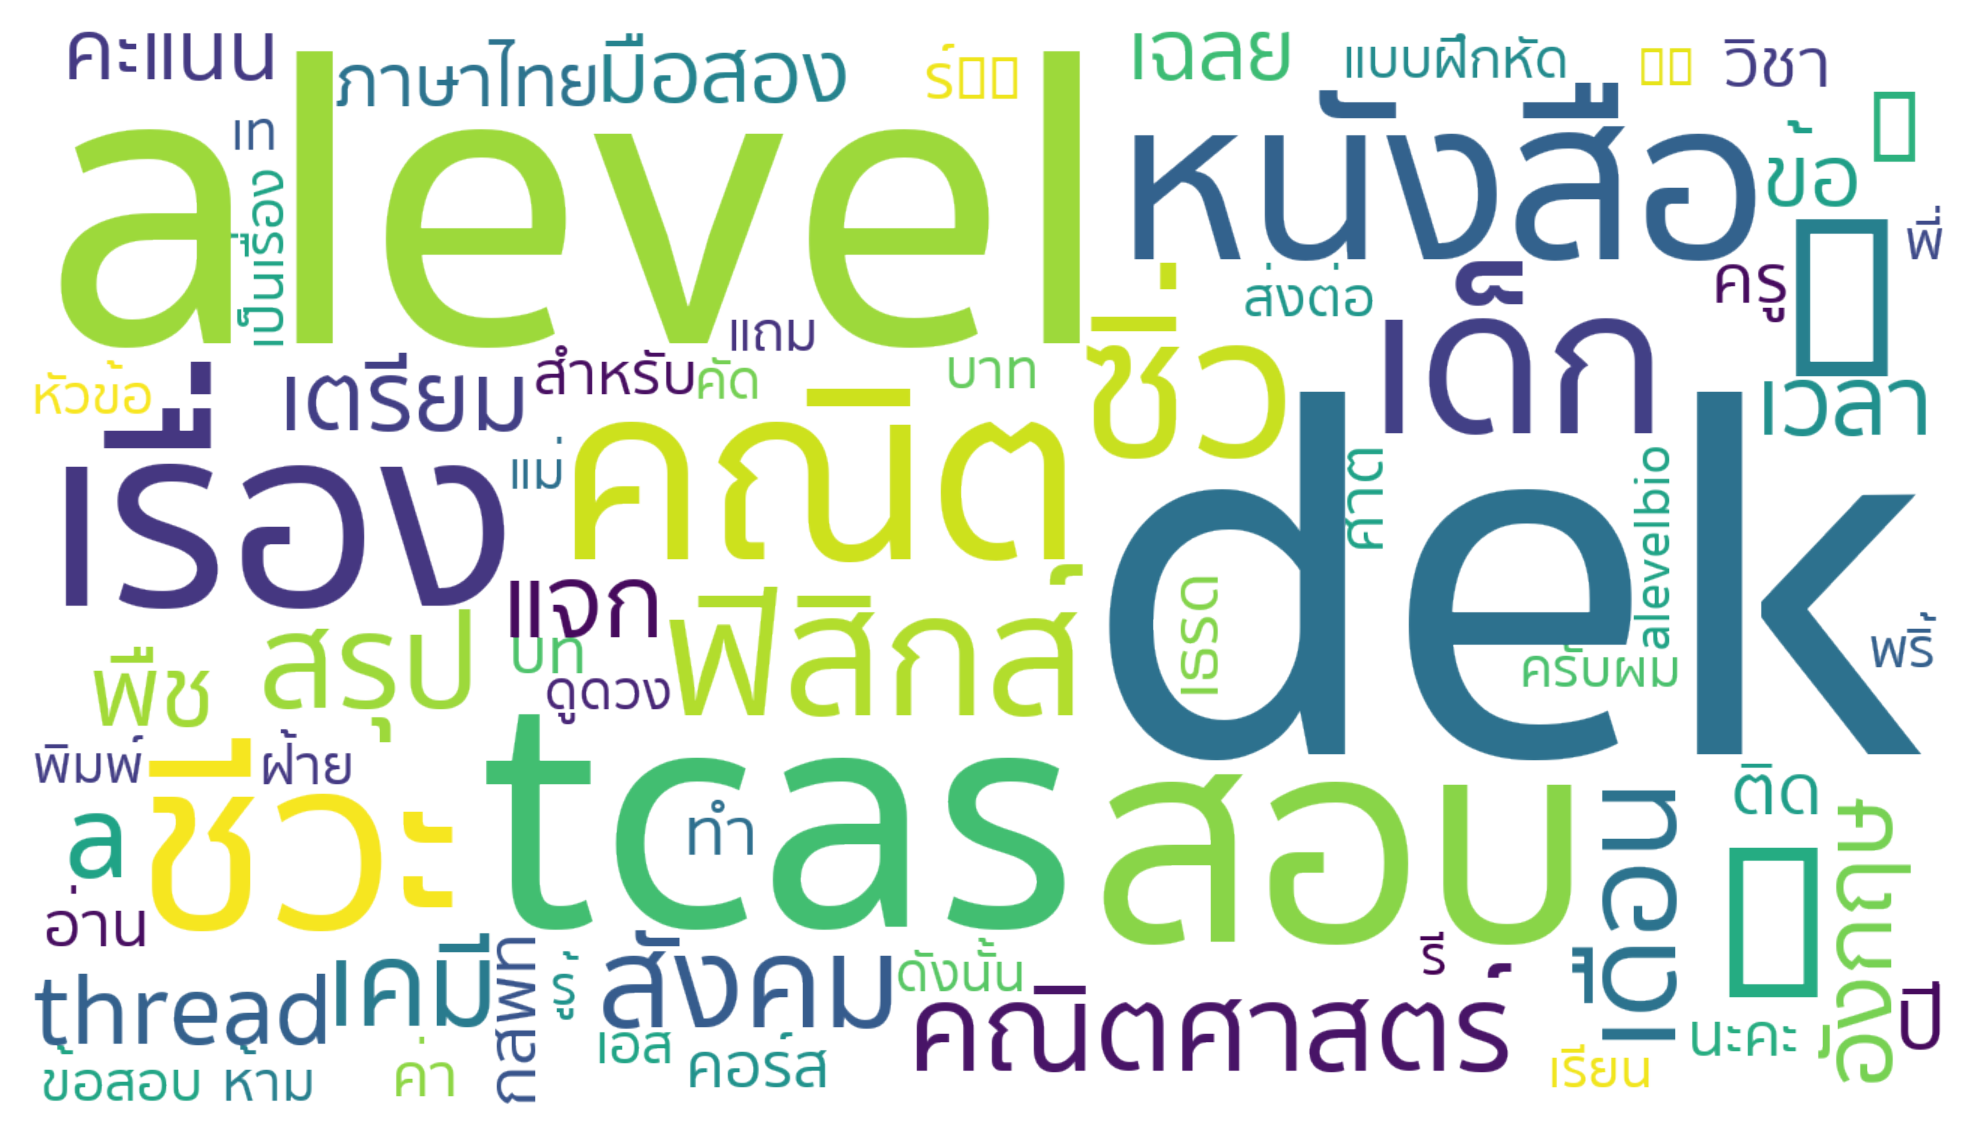
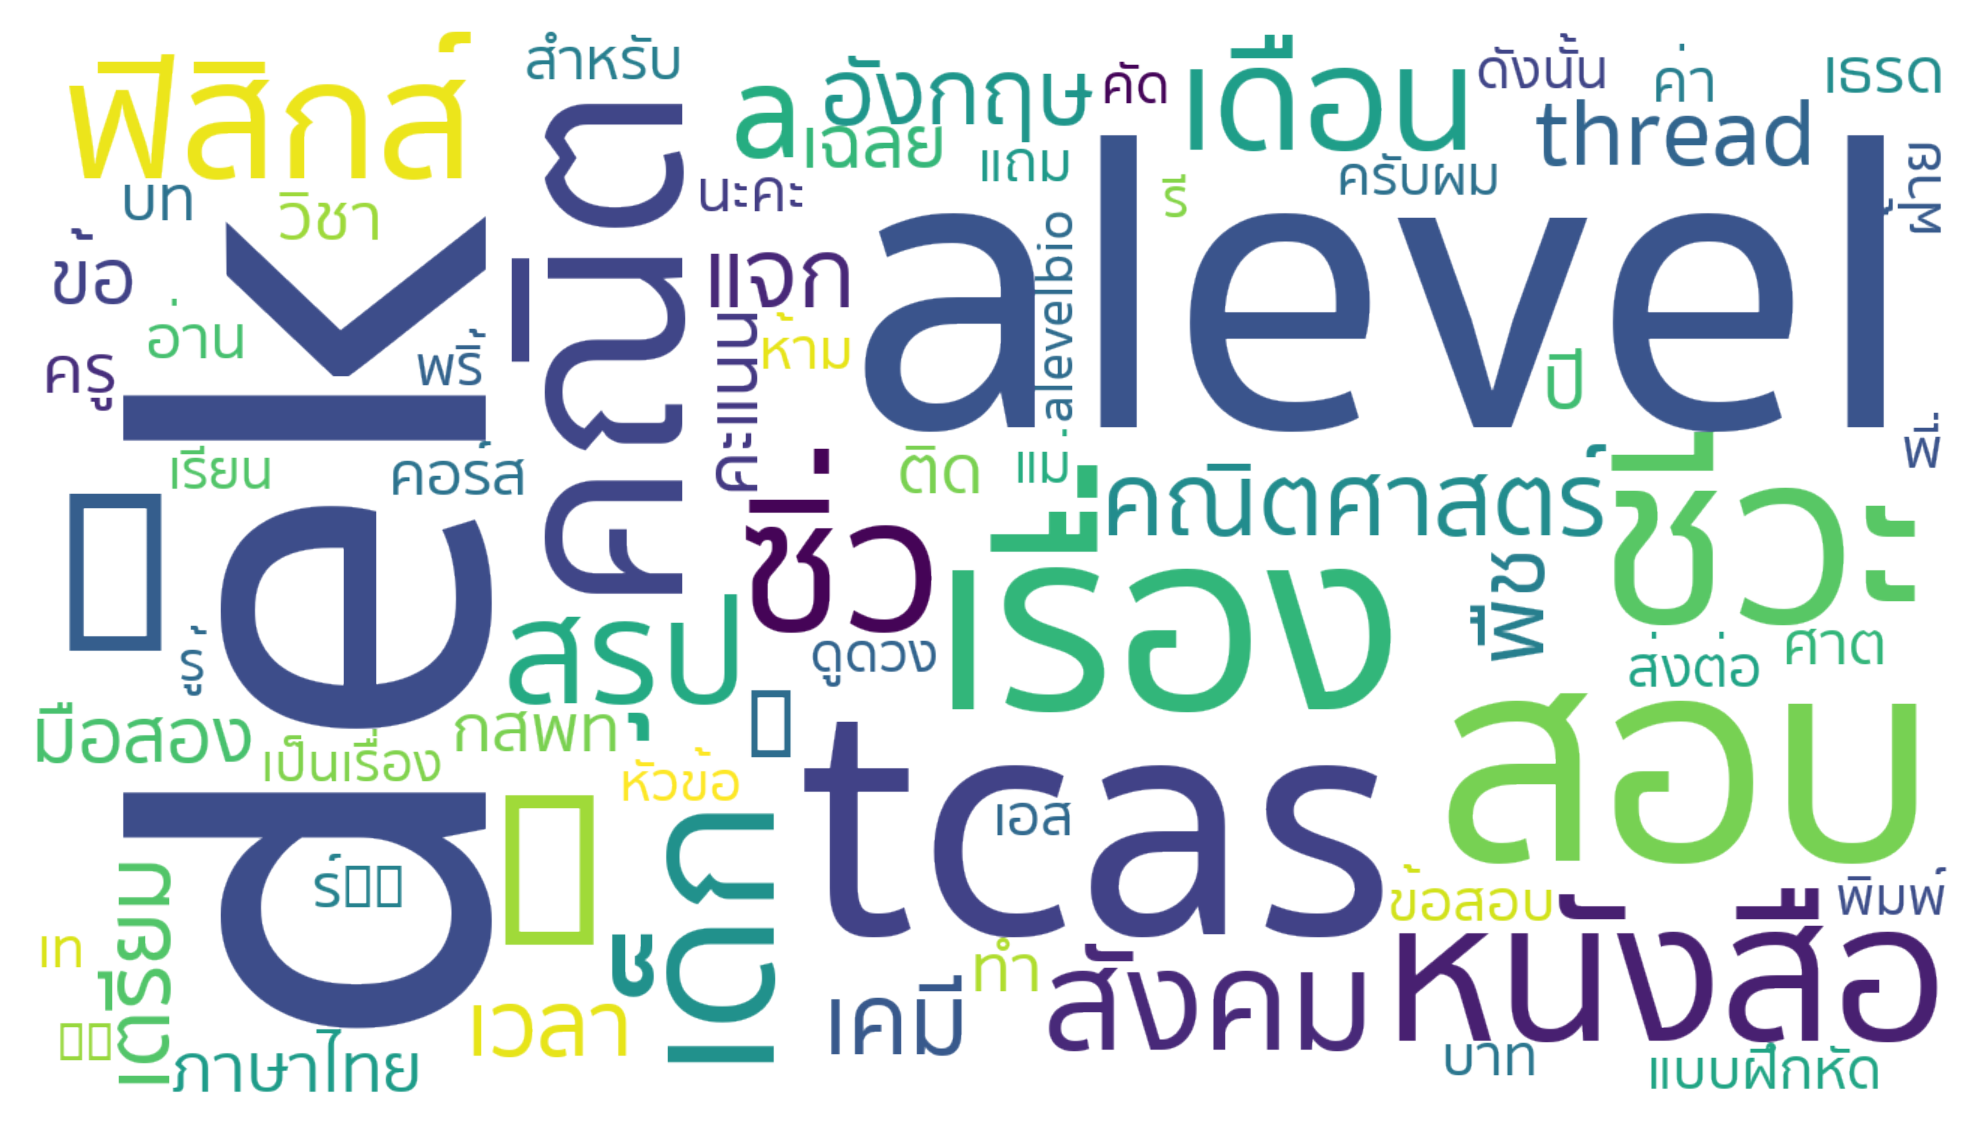
.

diff --git a/TwitterKeeper/Twitter_Analyzer.py b/TwitterKeeper/Twitter_Analyzer.py
@@ -69,7 +69,7 @@ class FindTopWord(PullTweetsData):
         plt.imshow(wordcloud, interpolation='bilinear')
         plt.axis('off')
         plt.tight_layout(pad=0)
-        plt.savefig('wordcloud.png', dpi=300, bbox_inches='tight')
+        plt.savefig('../GUI/wordcloud.png', dpi=300, bbox_inches='tight')
         plt.close()
         
 
@@ -219,10 +219,10 @@ class main():
             mode='markers',
             marker={
                 'size': data['value']/10,
-                'color': data['value'],
+                'color': "#000000",
                 'colorscale': 'Viridis',
                 'opacity': 0.7,
-                'colorbar': {'title': 'Value'},
+                # 'colorbar': {'title': 'Value'},
                 'sizemin': 5
             },
             text = data['country'] + ': ' + data['value'].astype(str)
@@ -288,9 +288,9 @@ class main():
 
 if __name__ == "__main__":
     # main().OneAnalyzer()
-    # x = main().load_sample_tweets(hashtag="dek66")
-    # dfMostWord = main().find_top_word.MostWordFinder(x)
-    # main().find_top_word.WordCloudPlot(dfMostWord)
+    x = main().load_sample_tweets(hashtag="dek66")
+    dfMostWord = main().find_top_word.MostWordFinder(x)
+    main().find_top_word.WordCloudPlot(dfMostWord)
     # df = main().tweets_sentiment_analyzer(x)
     # main().SentimentPiePlot(df)
     # # for i in x:

diff --git a/GUI/program1.py b/GUI/program1.py
@@ -753,8 +753,10 @@ class Ui_MainWindow(object):
         # label.setGeometry(0, 0, self.WordCloud.width(), self.WordCloud.height())
         # self.WordCloud.setStyleSheet(f"background-image: url({pixmap});")
         plot_widget2 = QtWebEngineWidgets.QWebEngineView(self.WordCloud)
-        plot_widget2.setHtml(f"<html><body><img src=\"wordcloud.png\" /></body></html>")
+        # plot_widget2.setHtml(f"<html><body><img src=\"wordcloud.png\" /></body></html>")
         plot_widget2.setGeometry(0, 0, self.WordCloud.width(), self.WordCloud.height())
+
+        plot_widget2.load(QtCore.QUrl.fromLocalFile(f"{this_dir}/wordcloud.png"))
 
         plot_widget3 = QtWebEngineWidgets.QWebEngineView(self.frame_6)
         plot_widget3.setHtml(figSpatial.to_html(include_plotlyjs='cdn'))
